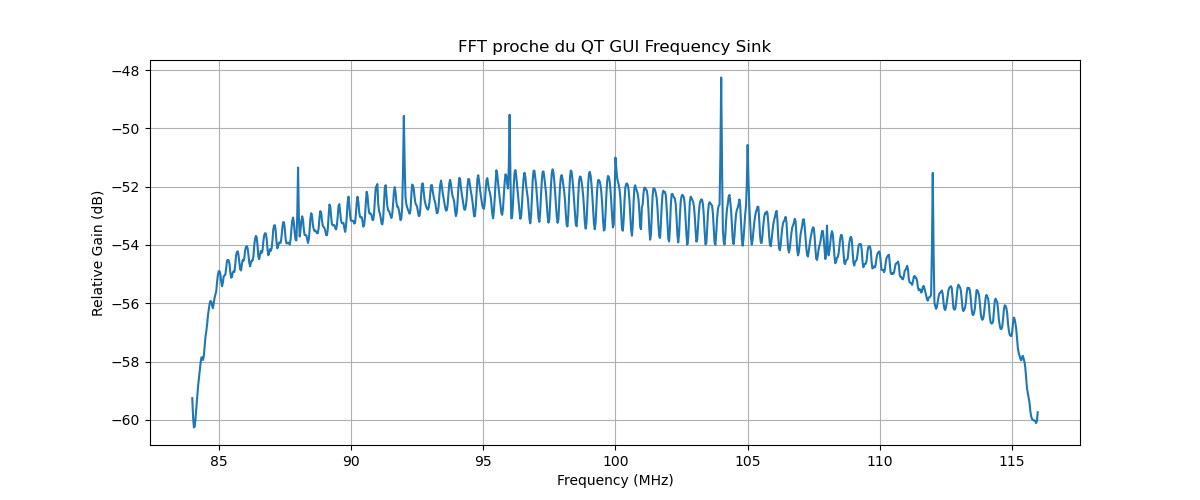
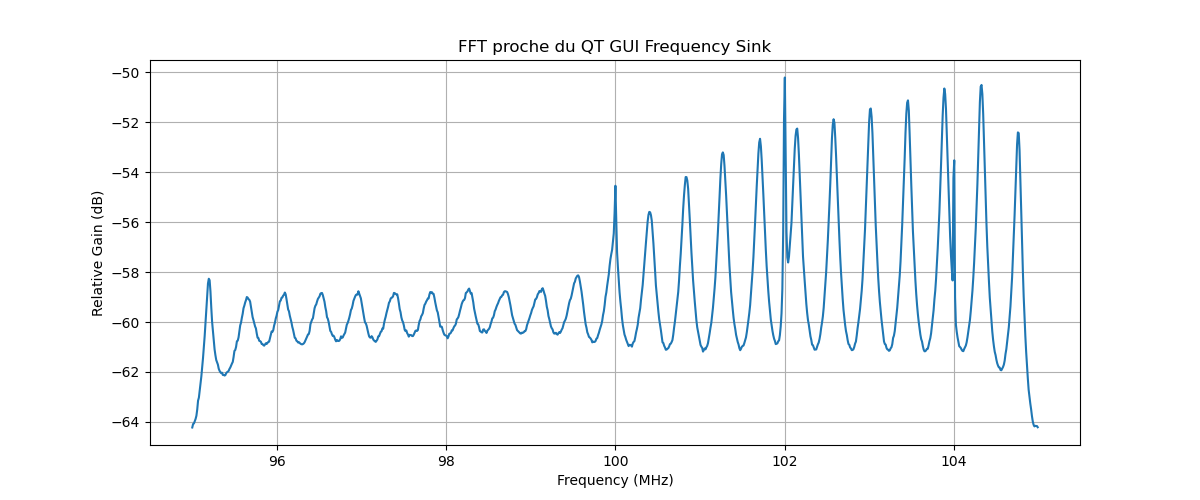
Find best freq to do the PRPD

diff --git a/main.py b/main.py
@@ -9,11 +9,13 @@ import time
 
 
 FREQ = 100e6
-RATE = 32e6
+RATE = 10e6
 DURATION = 1.0
 GAIN = 50
 CHANNEL = 0
 NFFT = 1024
+
+
 
 def Time_domain_gr(samples, rate, name = ""):
     t = np.arange(0, DURATION, 1/rate)
@@ -365,6 +367,64 @@ def tx_rx_loopback(usrp, tx_signal, freq, rate, tx_gain=0, rx_gain=20, tx_chan=0
 
     return received
 
+
+def Find_PD_Band(samples, rate, band_width=1e6, step=500e3):
+    """
+    Cherche automatiquement la bande fréquentielle où les impulsions PD sont les plus visibles.
+    Retourne le meilleur f_offset.
+    """
+
+    offsets = np.arange(-rate/2 + band_width, rate/2 - band_width, step)
+
+    best_score = -np.inf
+    best_offset = None
+
+    for f_offset in offsets:
+        N = len(samples)
+        t = np.arange(N) / rate
+
+        # Translation de la bande testée vers 0 Hz
+        x = samples * np.exp(-1j * 2 * np.pi * f_offset * t)
+
+        # Filtre passe-bas sur la bande testée
+        cutoff = band_width / 2
+        sos = butter(
+            4,
+            cutoff / (rate / 2),
+            btype="low",
+            output="sos"
+        )
+
+        x_filt = sosfiltfilt(sos, x)
+
+        # Enveloppe
+        env = np.abs(x_filt)
+
+        # Score impulsionnel
+        noise = np.median(env)
+        sigma = np.std(env)
+        threshold = noise + 4 * sigma
+
+        peaks, _ = find_peaks(
+            env,
+            height=threshold,
+            distance=int(10e-6 * rate)
+        )
+        print("Len picks == ", len(peaks))
+        if len(peaks) == 0:
+            score = 0
+        else:
+            score = len(peaks) * np.mean(env[peaks]) / (noise + 1e-12)
+
+        if score > best_score:
+            best_score = score
+            best_offset = f_offset
+
+    print(f"Meilleure bande trouvée autour de f_offset = {best_offset/1e6:.3f} MHz")
+    print(f"Score = {best_score:.2f}")
+
+    return best_offset
+
 def main():
     print("Initializing USRP...")
     usrp = uhd.usrp.MultiUSRP()
@@ -372,7 +432,7 @@ def main():
     num_samps = int(DURATION * RATE)
 
     print("\n--- SIMULATION PD ---")
-    F_OFFSET = 5e6
+    F_OFFSET = 2e6
 
     pd_simulated = Simulate_PD_Signal(
         num_samps,
@@ -380,7 +440,7 @@ def main():
         f_offset=F_OFFSET
     )
 
-    noise_power = 0.025
+    noise_power = 0.0025
     
     noise = (
         np.random.normal(0, noise_power, len(pd_simulated)) +
@@ -399,6 +459,7 @@ def main():
     
     pd_noisy += drift
     # pd_simulated = pd_simulated * 0
+
     print("\n--- TX puis RX ---")
     rx_signal = tx_rx_loopback(
         usrp=usrp,
@@ -410,13 +471,23 @@ def main():
         tx_chan=0,
         rx_chan=0
     )
+    
+    best_offset = Find_PD_Band(rx_signal, RATE, step=300e3)
 
-    print("\n--- TRAITEMENT PRPD SUR SIGNAL REÇU ---")
+    print("Best offsets ====== ", best_offset)
+    
     phases_detected, amps_dbm = Process_PD_Signal(
         rx_signal,
         RATE,
-        f_offset=F_OFFSET
+        f_offset=best_offset
     )
+    
+    print("\n--- TRAITEMENT PRPD SUR SIGNAL REÇU ---")
+    # phases_detected, amps_dbm = Process_PD_Signal(
+    #     rx_signal,
+    #     RATE,
+    #     f_offset=F_OFFSET
+    # )
 
     if len(amps_dbm) > 0:
         Plot_PRPD(phases_detected, amps_dbm, name="_tx_rx_b200")
@@ -432,7 +503,7 @@ def main():
     )
 
     Time_domain_gr(pd_noisy, RATE)
-    print("--- FIN ---")
+
     
 
 if __name__ == "__main__":
